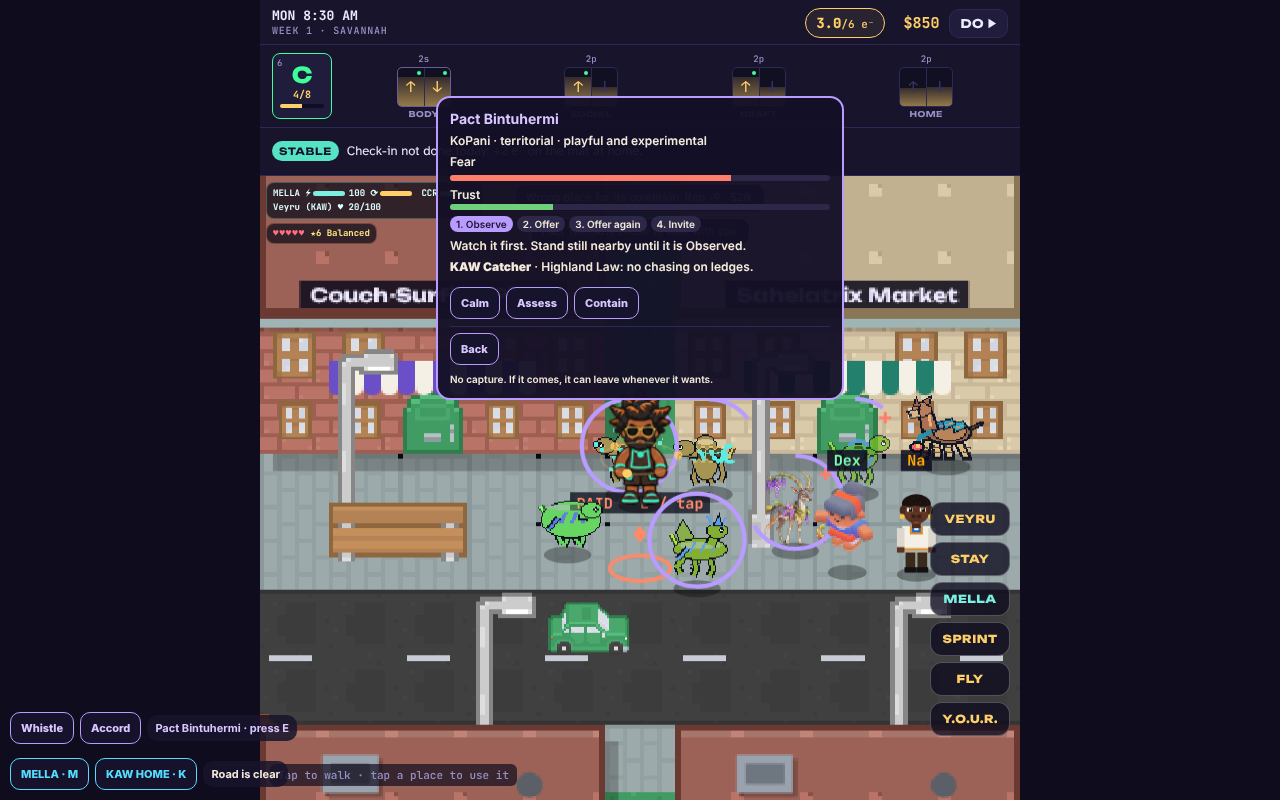
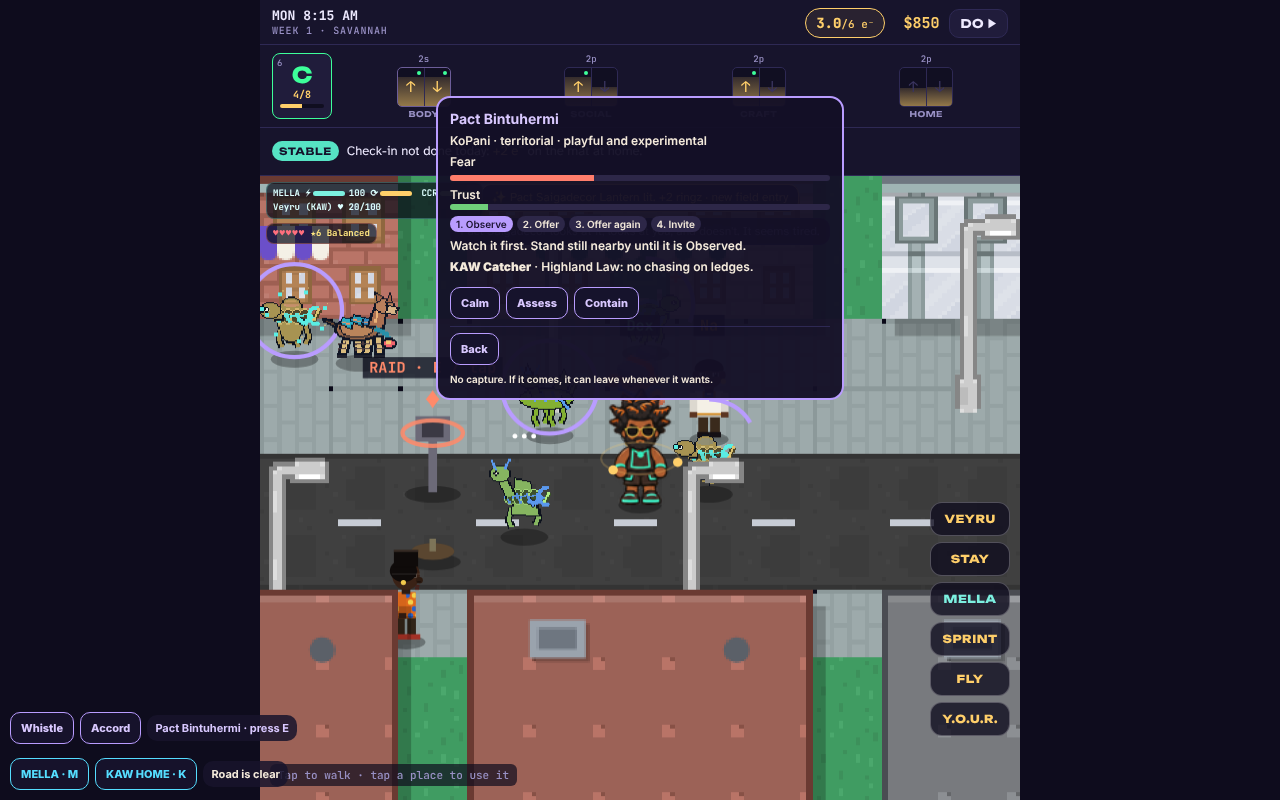
WishBorn fixtures: Accord followers wake dormant world objects, on their own or when asked
Claude-Session: https://claude.ai/code/session_01EQSELaz3hEhDqU7yCqmvuC

diff --git a/your/wishborn/wishborn_world.js b/your/wishborn/wishborn_world.js
@@ -24,11 +24,25 @@
     shore: 'Shore Law: never pull from the water.', highlands: 'Highland Law: no chasing on ledges.' };
   const listeners = [];
   const emit = (type, d) => { for (const f of listeners) { try { f(type, d || {}); } catch (e) { } } };
-  const R = { wilds: [], map: null, spawnT: 3, uid: 1, panel: null, hud: null, followers: [], hx: 0, hy: 0, hint: null };
+  // Fixtures: dormant world objects a follower's power can restore. Each follower's KAW effect (fx) says what it can wake.
+  const ENV_MS = 12 * 60000, FIX_PHASE = { charge: .5, cast: .6, channel: 2.0, recover: .67 };
+  const FIX = {
+    pylon:   { fx: 'shock',   label: 'Pylon energized',        dorm: 'Dormant pylon',      col: '#7fd7ff', region: 'highlands' },
+    antenna: { fx: 'shock',   label: 'Signal retransmitted',   dorm: 'Dead antenna',       col: '#9ff0ff', region: 'shore' },
+    lantern: { fx: 'burn',    label: 'Lantern lit',            dorm: 'Cold lantern',       col: '#ffb83f', region: 'meadow' },
+    geode:   { fx: 'burn',    label: 'Geode warmed open',      dorm: 'Closed geode',       col: '#ff7d4f', region: 'highlands' },
+    sprout:  { fx: 'snare',   label: 'Plant growing',          dorm: 'Planted seed',       col: '#6fcf7a', region: 'meadow' },
+    boulder: { fx: 'snare',   label: 'Path unblocked',         dorm: 'Blocking boulder',   col: '#c9b48a', region: 'woods' },
+    windmill:{ fx: 'stagger', label: 'Windmill turning',       dorm: 'Still windmill',     col: '#e8f0ff', region: 'meadow' },
+    machine: { fx: 'stagger', label: 'Machine repaired',       dorm: 'Broken machine',     col: '#d4d4e8', region: 'woods' },
+    basin:   { fx: 'heal',    label: 'Basin filled',           dorm: 'Empty basin',        col: '#55ddff', region: 'shore' },
+    obelisk: { fx: 'heal',    label: 'Star map aligned',       dorm: 'Dim observatory stone', col: '#d9c8ff', region: 'highlands' },
+  };
+  const R = { fixtures: [], fixMap: null, wilds: [], map: null, spawnT: 3, uid: 1, panel: null, hud: null, followers: [], hx: 0, hy: 0, hint: null };
 
   function st() {
     const S = GM().S; if (!S) return null;
-    if (!S.wishborn) S.wishborn = { id: Math.random().toString(36).slice(2, 10), items: { berry: 3, water: 2, crystal: 1 }, accord: [], log: [], species: {}, rescue: { rep: 0, credits: 0, done: 0, wrong: 0 }, parted: 0 };
+    if (!S.wishborn) S.wishborn = { id: Math.random().toString(36).slice(2, 10), items: { berry: 3, water: 2, crystal: 1 }, accord: [], log: [], species: {}, env: {}, restores: {}, ringz: 0, rescue: { rep: 0, credits: 0, done: 0, wrong: 0 }, parted: 0 };
     return S.wishborn;
   }
   const rec = id => { const s = st(); return s.species[id] || (s.species[id] = { seen: 0, observed: 0, offers: 0, refusals: 0, invites: 0, declined: 0, joined: 0, faced: 0, lvl: 0 }); };
@@ -65,6 +79,21 @@
     R.wilds = R.wilds.filter(w => w.map === G.map.id);
     while (R.wilds.length < 3) { const p = freeTile(G.px, G.py, 5, 14), sp = pool(G.map.id); if (!p || !sp.length) break; spawn(sp[Math.floor(Math.random() * sp.length)], p, Math.random() < .25); }
   }
+
+  const h2 = (a, b, c) => { let h = (a * 374761393 + b * 668265263 + c * 2147483647) >>> 0; h = Math.imul(h ^ (h >>> 13), 1274126177) >>> 0; return ((h ^ (h >>> 16)) >>> 0) / 4294967296; };
+  function seedFixtures(mapId) {
+    const m = GM().G.map; R.fixtures = []; R.fixMap = mapId; if (!m || mapId === 'HOME') return;
+    const rl = realmFor(mapId), kinds = Object.keys(FIX); let hh = 0; for (const c of mapId) hh = (hh * 31 + c.charCodeAt(0)) >>> 0;
+    // each city holds 5 fixtures: 3 of its own realm's kinds when available, the rest from any realm
+    const own = kinds.filter(k => FIX[k].region === rl), rest = kinds.filter(k => FIX[k].region !== rl), pickK = [];
+    for (let i = 0; i < 5; i++) pickK.push(i < 3 && own.length ? own[i % own.length] : rest[(hh + i) % rest.length]);
+    const used = new Set();
+    pickK.forEach((kind, n) => { for (let i = 0; i < 400; i++) { const x = 3 + Math.floor(h2(hh, n * 7 + 1, i) * (m.w - 6)), y = 3 + Math.floor(h2(hh, n * 7 + 2, i) * (m.h - 6));
+        if (!GM().walkable(m, x, y) || used.has(x + ',' + y) || [[1, 0], [-1, 0], [0, 1], [0, -1]].some(([dx, dy]) => !GM().walkable(m, x + dx, y + dy))) continue;
+        used.add(x + ',' + y); R.fixtures.push({ id: mapId + '_' + kind + '_' + n, kind, x: x + .5, y: y + .5, map: mapId }); break; } });
+  }
+  const restored = o => { const t = st().env[o.id]; return !!t && Date.now() - t < ENV_MS; };
+  const fixLabel = o => restored(o) ? FIX[o.kind].label : FIX[o.kind].dorm;
 
   // ---- behavior: perception -> state; one state at a time, 12 states ----
   function setSt(w, s, t) { w.st = s; w.stT = t === undefined ? rnd(2, 5) : t; }
@@ -123,8 +152,13 @@
     if (R.followers.length !== s.accord.length) followerObjs();
     R.followers.forEach((f, i) => {
       f.anim += dt * (f.moving ? 7 : 1.5); f.stT -= dt; if (f.emoteT > 0) f.emoteT -= dt; else f.emote = '';
-      const dh = H(G.px - f.x, G.py - f.y), hung = Date.now() - (f.a.fedAt || 0) > HUNGRY_MS * .66;
+      if (f.a.energy == null) f.a.energy = 1; f.a.energy = Math.min(1, f.a.energy + dt * .004); const dh = H(G.px - f.x, G.py - f.y), hung = Date.now() - (f.a.fedAt || 0) > HUNGRY_MS * .66;
       if (dh > 14) { f.x = G.px - .8; f.y = G.py + .8; f.st = 'follow'; }
+      if (f.st === 'power') { const P = f.pw; if (!P || restored(P.o)) { f.st = 'follow'; f.pw = null; return; }
+        const ox = P.o.x + (f.x < P.o.x ? -.9 : .9), oy = P.o.y + .6;
+        if (P.ph === 'go') { f.anim += dt; P.t += dt; if (moveTo(f, ox, oy, 2.6, dt) || P.t > 9) { if (P.t > 9) { f.st = 'follow'; f.pw = null; return; } P.ph = 'charge'; P.t = 0; f.moving = false; f.dir = P.o.x > f.x ? 1 : -1; f.emote = '✦'; f.emoteT = 1.2; } return; }
+        P.t += dt; f.moving = false; if (P.t >= FIX_PHASE[P.ph]) { P.t = 0; if (P.ph === 'charge') P.ph = 'cast'; else if (P.ph === 'cast') P.ph = 'channel'; else if (P.ph === 'channel') { P.ph = 'recover'; restoreFix(f, P.o, P.asked); } else { f.st = 'follow'; f.pw = null; } } return; }
+      if ((f.st === 'follow' || f.st === 'idle') && !G.moving && f.a.energy > .3 && Math.random() < dt * .12) { const o = R.fixtures.find(o => FIX[o.kind].fx === f.sp.fx && !restored(o) && H(o.x - f.x, o.y - f.y) < 7); if (o && Math.random() < .35) { beginPower(f, o, false); return; } }
       if (f.st === 'idle' || f.st === 'nap') { if (f.stT <= 0 || (G.moving && dh > 2.5)) f.st = 'follow'; f.moving = false; return; }
       if (f.st === 'investigate') { if (GM().walkable(m, Math.floor(f.tx), Math.floor(f.ty))) { if (moveTo(f, f.tx, f.ty, 1.6, dt) || f.stT <= 0) { f.st = 'idle'; f.stT = 2; f.emote = '?'; f.emoteT = 1.5; } } else f.st = 'follow'; return; }
       const tgt = [G.px - .8 - i * .7, G.py + .7]; const d = H(tgt[0] - f.x, tgt[1] - f.y);
@@ -133,6 +167,19 @@
     });
     // an Accord follower that has not been fed for a long while may part ways — it was never captured
     R.partT = (R.partT || 0) + dt; if (R.partT > 240) { R.partT = 0; for (const a of s.accord.slice()) if (Date.now() - (a.fedAt || 0) > HUNGRY_MS && Math.random() < .3) part(a.sp, 'nobody shared food with it for a long while'); }
+  }
+  function beginPower(f, o, asked) { f.st = 'power'; f.pw = { o, ph: 'go', t: 0, asked }; f.emote = '✦'; f.emoteT = 1.2; }
+  function restoreFix(f, o, asked) {
+    const s = st(); if (restored(o)) return; s.env[o.id] = Date.now(); f.a.energy = Math.max(0, (f.a.energy == null ? 1 : f.a.energy) - .08); f.a.restores = (f.a.restores || 0) + 1;
+    const first = !s.restores[o.kind]; s.restores[o.kind] = (s.restores[o.kind] || 0) + 1; s.ringz += 2; log(f.sp.name + ': ' + FIX[o.kind].label + (asked ? ' (you asked)' : ' (on its own)'));
+    toast('✨ ' + f.sp.name + (asked ? ' ' : ' decided to — ') + FIX[o.kind].label + '. +2 ringz' + (first ? ' · new field entry' : ''), 'gold'); emit('restored', { sp: f.sp, kind: o.kind, asked, n: s.restores[o.kind] }); GM().save(); render();
+  }
+  function askFollower(f, o) {
+    if (restored(o)) return; const hungry = Date.now() - (f.a.fedAt || 0) > HUNGRY_MS * .66, tired = (f.a.energy == null ? 1 : f.a.energy) < .25;
+    const p = .5 + Math.min(3, f.a.restores || 0) * .1 - (hungry ? .3 : 0) - (tired ? .3 : 0);
+    if (Math.random() < p) { beginPower(f, o, true); toast(f.sp.name + ' heard you and heads for it.'); }
+    else { f.emote = '…'; f.emoteT = 2; log(f.sp.name + ' declined to use its power (' + (hungry ? 'hungry' : tired ? 'tired' : 'not now') + ').'); toast(f.sp.name + ' looks at it, looks at you, and doesn\'t. ' + (hungry ? 'It seems hungry.' : tired ? 'It seems tired.' : 'Not now.')); }
+    R.panel = null; render();
   }
   function part(id, why) { const s = st(), sp = SP.find(x => x.id === id); s.accord = s.accord.filter(a => a.sp !== id); R.followers = R.followers.filter(f => f.sp.id !== id); s.parted++; if (sp) { emit('parted', { sp, why }); log(sp.name + ' went its own way — ' + why + '.'); toast(sp.name + ' went its own way.', 'dim'); } GM().save(); render(); }
   function whistle() { R.followers.forEach(f => { f.st = 'follow'; f.emote = '♪'; f.emoteT = 1.2; const G = GM().G; if (H(G.px - f.x, G.py - f.y) > 4) { f.x = G.px - .8; f.y = G.py + .8; } }); toast(R.followers.length ? 'You whistle. Your Accord comes in.' : 'Nobody is walking with you yet.'); }
@@ -204,7 +251,13 @@
     if (p.kind === 'accord') {
       el.innerHTML = '<h3>Your Accord (' + s.accord.length + '/' + ACCORD_MAX + ')</h3><p>No capture. They walk with you by choice and can leave.</p>' +
         (s.accord.map(a => { const sp = SP.find(x => x.id === a.sp), hu = Math.min(100, (Date.now() - a.fedAt) / HUNGRY_MS * 100); return '<p><b>' + sp.name + '</b> · ' + sp.beh + ' · eats ' + sp.food + bar(100 - hu, hu > 66 ? '#ff7d6b' : '#6fcf7a') + '<span class="row">' + ['berry', 'water', 'crystal'].map(k => '<button data-fa="' + a.sp + ':' + k + '" ' + (it[k] < 1 ? 'disabled' : '') + '>Feed ' + k + '</button>').join('') + '<button data-part="' + a.sp + '">Part ways</button></span></p>'; }).join('') || '<p>Nobody yet. Observe a wild creature, offer what it eats, offer again, then invite.</p>') +
-        '<p>Rescues done ' + s.rescue.done + ' · Rep ' + s.rescue.rep + '</p><p><button id="wbClose">Close</button></p>';
+        '<p>Rescues done ' + s.rescue.done + ' · Rep ' + s.rescue.rep + ' · Ringz ' + s.ringz + ' · Fixtures woken ' + Object.values(s.restores).reduce((a, b) => a + b, 0) + '</p><p><button id="wbClose">Close</button></p>';
+    } else if (p.kind === 'fix') {
+      const o = p.o, F = FIX[o.kind], rs = restored(o);
+      el.innerHTML = '<h3>' + fixLabel(o) + '</h3><p>' + (rs ? 'Restored. It drifts back to dormant in a while, so the world keeps needing your Accord.' : 'Dormant. A companion whose power is <b>' + F.fx + '</b> can wake it.') + '</p><p>Companions do this on their own when they pass by and feel like it. You can ask. They may say no.</p>' +
+        (R.followers.map(f => { const can = f.sp.fx === F.fx, here = H(f.x - o.x, f.y - o.y) < 9; return '<p><button data-ask="' + f.sp.id + '" ' + (can && here && !rs ? '' : 'disabled') + '>' + (can ? 'Ask ' + f.sp.name : f.sp.name + ': ' + f.sp.fx + ' (not its power)') + (can && !here ? ' (too far)' : '') + '</button></p>'; }).join('') || '<p>Nobody walks with you yet.</p>') + '<p><button id="wbClose">Back</button></p>';
+      el.querySelectorAll('[data-ask]').forEach(b => b.onclick = () => askFollower(R.followers.find(f => f.sp.id === b.dataset.ask), o));
+      el.querySelector('#wbClose').onclick = () => { R.panel = null; render(); }; return;
     } else {
       const w = p.w; if (!w || w.gone) { el.hidden = true; R.panel = null; return; } const r = rec(w.sp.id), b = beat(w), pf = pFriendly(w);
       const steps = ['Observe', 'Offer', 'Offer again', 'Invite'].map((t, i) => '<span class="wbBeat ' + (i + 1 < b ? 'done' : i + 1 === b ? 'now' : '') + '">' + (i + 1) + '. ' + t + '</span>').join('');
@@ -227,17 +280,18 @@
 
   // ---- world hooks ----
   function nearestWild(maxD) { const G = GM().G; let best = null, bd = maxD; for (const w of R.wilds) { if (w.map !== G.map.id || w.gone) continue; const d = H(w.x - G.px, w.y - G.py); if (d < bd) { bd = d; best = w; } } return best; }
-  function use() { const w = nearestWild(1.8); if (!w) return null; return () => { R.panel = { kind: 'wild', w }; render(); }; }
+  function nearestFix(maxD) { const G = GM().G; let b = null, bd = maxD; for (const o of R.fixtures) { const d = H(o.x - G.px, o.y - G.py); if (d < bd) { bd = d; b = o; } } return b; }
+  function use() { const w = nearestWild(1.8), o = nearestFix(1.8); if (w) return () => { R.panel = { kind: 'wild', w }; render(); }; if (o) return () => { R.panel = { kind: 'fix', o }; render(); }; return null; }
   function tick(dt) {
     const s = st(), G = GM().G; if (!s || !G.map) return; if (!R.hud && document.body) css();
-    if (R.map !== G.map.id) { R.map = G.map.id; R.wilds = R.wilds.filter(w => w.map === G.map.id); R.spawnT = 2; R.followers.forEach(f => { f.x = G.px - .8; f.y = G.py + .8; }); if (G.map.id !== 'HOME') seedMap(); }
+    if (R.map !== G.map.id) { R.map = G.map.id; R.wilds = R.wilds.filter(w => w.map === G.map.id); R.spawnT = 2; R.followers.forEach(f => { f.x = G.px - .8; f.y = G.py + .8; }); if (G.map.id !== 'HOME') seedMap(); seedFixtures(G.map.id); }
     if (G.map.id === 'HOME') { if (R.panel && R.panel.kind === 'wild') { R.panel = null; render(); } return; }
     R.spawnT -= dt; if (R.spawnT <= 0) { R.spawnT = SPAWN_EVERY; if (R.wilds.length < WILD_CAP) { const p = freeTile(G.px, G.py, 7, 15), sp = pool(G.map.id); if (p && sp.length) spawn(sp[Math.floor(Math.random() * sp.length)], p, Math.random() < .2); } }
     for (const w of R.wilds) if (!w.gone && w.map === G.map.id) thinkWild(w, dt);
     // wilds that drift far are recycled
     R.wilds = R.wilds.filter(w => !w.gone && H(w.x - G.px, w.y - G.py) < 40);
     tickFollowers(dt);
-    const near = nearestWild(1.8); if (R.hud) { const h = R.hud.querySelector('#wbHint'); h.hidden = !near; if (near) h.textContent = near.sp.name + (near.hurt ? ' (hurt)' : '') + ' · press E'; }
+    const near = nearestWild(1.8), nf = nearestFix(1.8); if (R.hud) { const h = R.hud.querySelector('#wbHint'); h.hidden = !near && !nf; if (near) h.textContent = near.sp.name + (near.hurt ? ' (hurt)' : '') + ' · press E'; else if (nf) h.textContent = fixLabel(nf) + ' · press E'; }
     if (R.panel && R.panel.kind === 'wild' && (R.panel.w.gone || H(R.panel.w.x - G.px, R.panel.w.y - G.py) > 4)) { R.panel = null; render(); }
   }
   function drawCreature(c, t, hurt) {
@@ -249,14 +303,31 @@
     if (c.watch > .2) { cx.strokeStyle = '#b99cff'; cx.lineWidth = 2; cx.beginPath(); cx.arc(X, Y - 20, 22, -1.57, -1.57 + 6.283 * Math.min(1, c.watch / 2.2)); cx.stroke(); }
     if (c.hurt && !c.rescued) { cx.fillStyle = '#ff7d6b'; cx.font = 'bold 11px system-ui'; cx.textAlign = 'center'; cx.fillText('+', X + 14, Y - 30); }
   }
+  function drawFix(o, t) {
+    const T = GM().T, cx = GM().cx, X = o.x * T, Y = o.y * T, on = restored(o), c = FIX[o.kind].col, k = o.kind;
+    cx.save(); cx.translate(X, Y); cx.fillStyle = 'rgba(0,0,0,.3)'; cx.beginPath(); cx.ellipse(0, 3, 13, 4, 0, 0, 7); cx.fill();
+    if (on) { cx.fillStyle = c + '33'; cx.beginPath(); cx.arc(0, -16, 26 + Math.sin(t * 3 + o.x) * 2, 0, 7); cx.fill(); }
+    const body = on ? c : '#6c6a78', dim = on ? '#fff' : '#45434f'; cx.lineWidth = 3; cx.strokeStyle = body; cx.fillStyle = body;
+    if (k === 'pylon' || k === 'antenna') { cx.fillRect(-3, -28, 6, 30); cx.fillStyle = dim; cx.beginPath(); cx.arc(0, -30, k === 'pylon' ? 6 : 4, 0, 7); cx.fill(); if (k === 'antenna') { cx.beginPath(); cx.arc(0, -30, 11, -2.6, -.5); cx.stroke(); } }
+    else if (k === 'lantern') { cx.fillRect(-2, -24, 4, 26); cx.fillRect(-8, -34, 16, 12); cx.fillStyle = on ? '#fff3b0' : '#3b3944'; cx.fillRect(-5, -31, 10, 7); }
+    else if (k === 'geode') { cx.beginPath(); cx.ellipse(0, -10, 14, 11, 0, 0, 7); cx.fill(); cx.fillStyle = on ? '#ffe2c0' : '#45434f'; cx.beginPath(); cx.ellipse(0, -10, on ? 8 : 3, on ? 6 : 2, 0, 0, 7); cx.fill(); }
+    else if (k === 'sprout') { cx.fillStyle = '#5a4630'; cx.beginPath(); cx.ellipse(0, -2, 10, 4, 0, 0, 7); cx.fill(); cx.strokeStyle = on ? '#6fcf7a' : '#7d7458'; const hgt = on ? 30 : 8; cx.beginPath(); cx.moveTo(0, -2); cx.lineTo(0, -hgt); cx.stroke(); if (on) { cx.fillStyle = '#6fcf7a'; cx.beginPath(); cx.ellipse(-7, -hgt + 4, 7, 4, -.5, 0, 7); cx.ellipse(7, -hgt + 2, 7, 4, .5, 0, 7); cx.fill(); } }
+    else if (k === 'boulder') { cx.beginPath(); cx.ellipse(on ? 18 : 0, -10, 16, 12, 0, 0, 7); cx.fill(); }
+    else if (k === 'windmill') { cx.fillRect(-3, -30, 6, 32); cx.save(); cx.translate(0, -32); cx.rotate(on ? t * 4 : .3); for (let i = 0; i < 4; i++) { cx.rotate(1.5708); cx.fillStyle = body; cx.fillRect(-2, -16, 4, 16); } cx.restore(); }
+    else if (k === 'machine') { cx.fillRect(-13, -24, 26, 24); cx.fillStyle = dim; cx.fillRect(-8, -19, 16, 8); if (on) { cx.fillStyle = c; cx.fillRect(-8, -7, 4 + (Math.sin(t * 6) + 1) * 4, 3); } }
+    else if (k === 'basin') { cx.beginPath(); cx.ellipse(0, -8, 16, 8, 0, 0, 7); cx.fill(); cx.fillStyle = on ? '#9be8ff' : '#2b2a33'; cx.beginPath(); cx.ellipse(0, -9, 12, 5, 0, 0, 7); cx.fill(); }
+    else { cx.fillRect(-7, -38, 14, 40); cx.fillStyle = dim; for (let i = 0; i < 4; i++) { cx.beginPath(); cx.arc(((i % 2) - .5) * 7, -30 + i * 7, 1.6, 0, 7); cx.fill(); } }
+    cx.restore();
+  }
   function drawList(m, t) {
     const out = []; if (!m || !GM().S || m.id === 'HOME') return out;
+    for (const o of R.fixtures) if (o.map === m.id) out.push({ y: o.y + .05, f: () => drawFix(o, t) });
     for (const w of R.wilds) if (w.map === m.id && !w.gone) out.push({ y: w.y + .1, f: () => drawCreature(w, t, w.hurt && !w.rescued) });
     for (const f of R.followers) out.push({ y: f.y + .1, f: () => drawCreature(f, t, false) });
     return out;
   }
   function enterMap() { R.map = null; R.panel = null; if (R.panelEl) render(); }
 
-  window.WISHBORN = { on: f => listeners.push(f), tick, drawList, use, enterMap, state: st, species: SP, get wilds() { return R.wilds; }, get followers() { return R.followers; },
-    _t: { thinkWild, offer, invite, rescue, pFriendly, beat, spawn, part, feedFollower, whistle, R, rec, FEED, TEMP, followerObjs } };
+  window.WISHBORN = { on: f => listeners.push(f), tick, drawList, use, enterMap, state: st, species: SP, get wilds() { return R.wilds; }, get followers() { return R.followers; }, get fixtures() { return R.fixtures; },
+    _t: { FIX, restored, askFollower, restoreFix, beginPower, seedFixtures, thinkWild, offer, invite, rescue, pFriendly, beat, spawn, part, feedFollower, whistle, R, rec, FEED, TEMP, followerObjs } };
 })();

diff --git a/your/wishborn/wishborn_passport.js b/your/wishborn/wishborn_passport.js
@@ -9,6 +9,7 @@
     if (type === 'observed') return { key: 'observed:' + id + ':' + (d.n || 1), summary: 'Observed ' + n + ' in the wild', eff: [{ layer: 'knowledge', key: 'kaw.observed.' + id, kind: 'record', op: 'delta', amount: 1, text: 'Watched ' + n + ' without startling it.' }] };
     if (type === 'joined') return { key: 'joined:' + id + ':' + (d.n || 1), summary: n + ' chose to walk with Mella', eff: [{ layer: 'relationships', key: 'rel.kaw.' + id, kind: 'upgrade', op: 'delta', amount: 2, text: n + ' chose to walk with you.' }] };
     if (type === 'parted') return { key: 'parted:' + id + ':' + Date.now().toString(36), summary: n + ' went its own way', eff: [{ layer: 'relationships', key: 'rel.kaw.' + id, kind: 'record', op: 'delta', amount: 0, text: n + ' went its own way (' + d.why + ').' }] };
+    if (type === 'restored') return { key: 'restored:' + d.kind + ':' + (d.n || 1), summary: n + ' restored a ' + d.kind, eff: [{ layer: 'knowledge', key: 'kaw.fixture.' + d.kind, kind: 'record', op: 'delta', amount: 1, text: n + ' woke a ' + d.kind + (d.asked ? ' because you asked.' : ' on its own.') }] };
     if (type === 'rescue') return { key: 'rescue:' + id + ':' + Date.now().toString(36), summary: 'KAW rescue: ' + n + (d.ok ? ' (correct placement)' : ' (wrong placement)'),
       eff: d.ok ? [{ layer: 'skills', key: 'kaw.catcher', kind: 'upgrade', op: 'delta', amount: 1, text: 'Placed ' + n + ' where its condition needed.' }] : [{ layer: 'knowledge', key: 'kaw.catcher.lesson', kind: 'record', op: 'delta', amount: 1, text: 'Misplaced ' + n + '; check health before choosing.' }] };
     return null;
